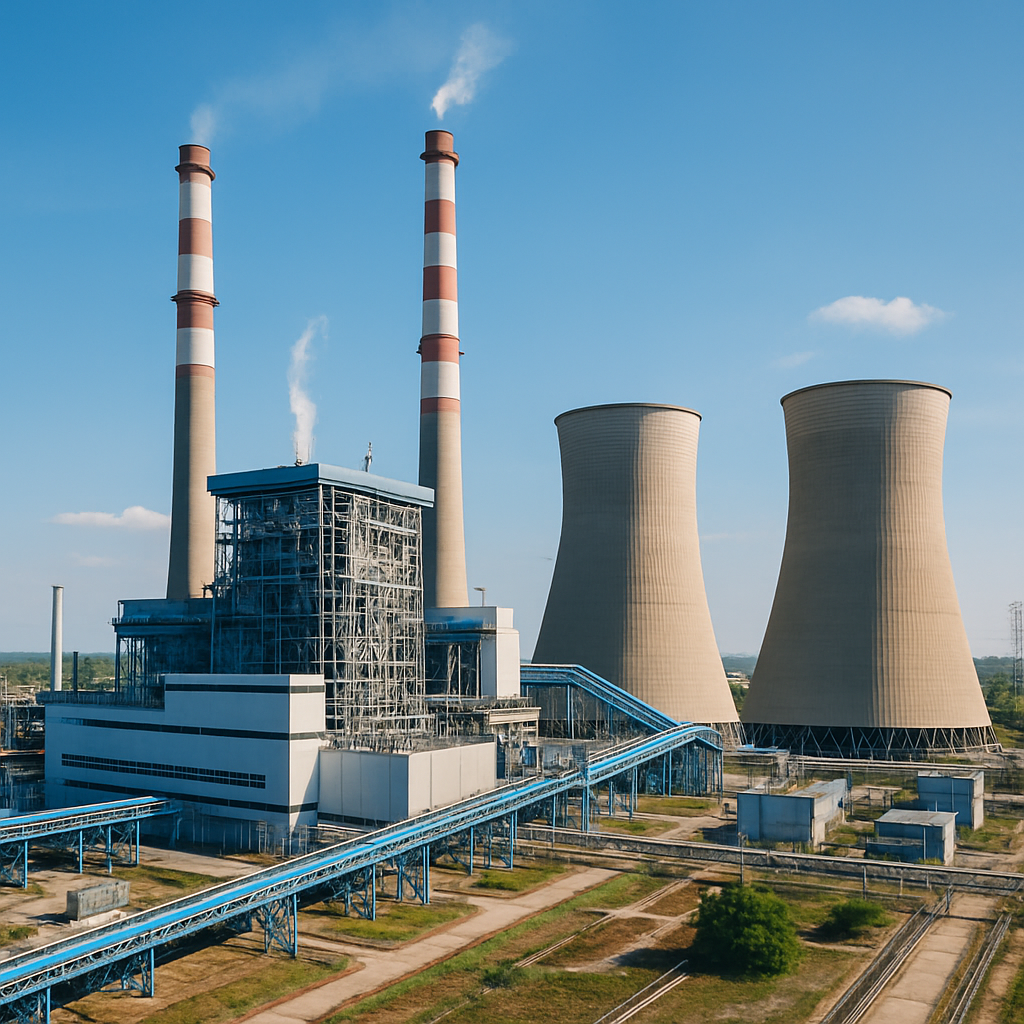
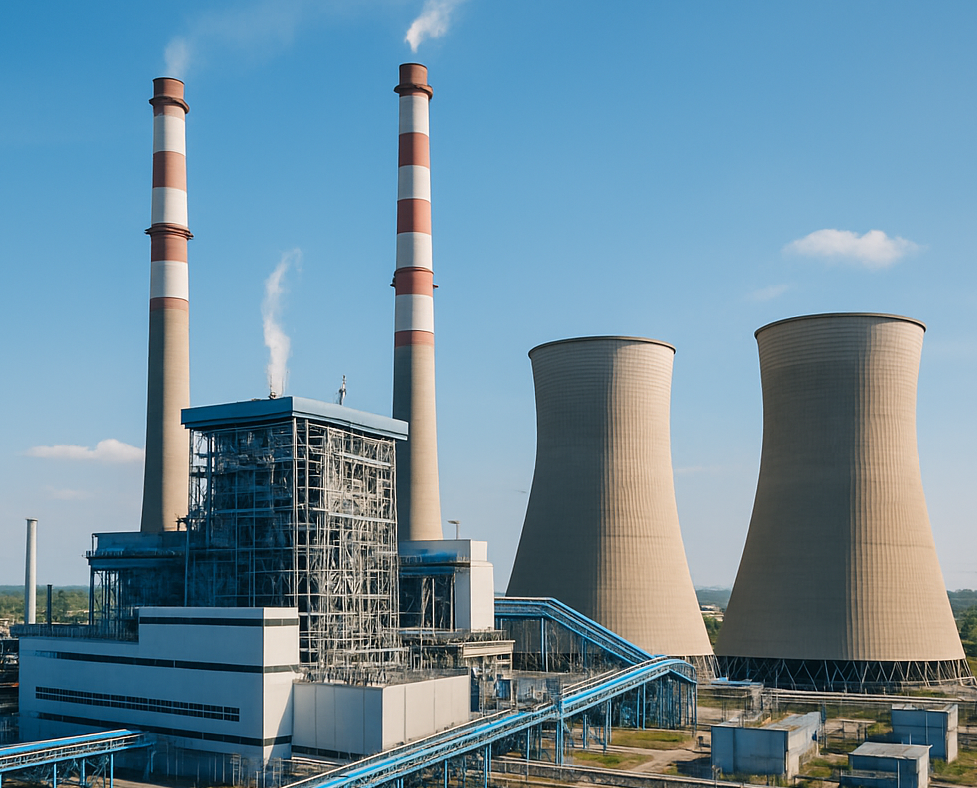
Updates

diff --git a/style.css b/style.css
@@ -62,6 +62,7 @@ span {
     color: rgb(77, 212, 129);
 }
 
+
                 /*    Create horizontal nav bar with spacing    */
 .Nav-bar {
     display: flex;
@@ -97,16 +98,16 @@ span {
   width: 100%;
   height: 450px;
 
-  background: url(./Img/TPP.png);
+  background: url(./Img/TPP1.png);
   background-size: cover;
   background-repeat: no-repeat;
-  background-position: center;
+  background-position: bottom;
   border-radius: 10px;
 
   display: flex;
-  align-items: center;
-  justify-content: center;
+  align-items:self-start;
   text-align: center;
+  padding-top: 60px;
 } 
 
 #Tpp::after {
@@ -117,7 +118,7 @@ span {
 
   width: 100%;
   height: 100%;
-  background-color: rgba(244, 243, 243, 0.30); /* 0.5 = 50% dark */
+  background-color: rgba(244, 243, 243, 0.15); 
   border-radius: 10px;
   
   z-index: 1;
@@ -125,7 +126,7 @@ span {
 
 h4 { 
   padding: 0 300px;
-  color: #322a71 !important;
+  color: #ad3333 !important;
 
   font-family: 'Times New Roman', Times, serif !important;
   font-size: 3rem;

diff --git a/index.html b/index.html
@@ -23,9 +23,9 @@
         <!-- Header - KEE logo  -->
         <img src="./Img/KEE image.png" alt="Kpn logo" id="logo">
         
-
         <!-- Company name  -->
         <div class="Company-name">Kalyani <span>E</span> Enterprise</div>
+
 
         <!-- Header-Navigation (to navigate the Home, About, Service, Contact contents) -->
         <nav >